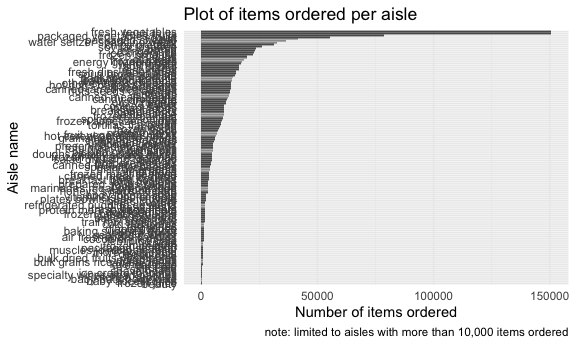
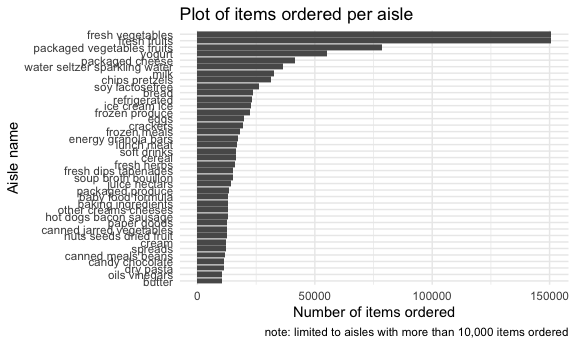
successfully filtered plot

diff --git a/p8105_hw3_smm2350.md b/p8105_hw3_smm2350.md
@@ -27,7 +27,7 @@ for a total of 20769255 data points. Key variables include `order_id`,
 instacart %>%
   group_by(aisle_id, aisle) %>%
   summarize(n_obs = n()) %>%
-  arrange(desc(n_obs))
+  arrange(desc(n_obs)) 
 ```
 
     ## `summarise()` has grouped output by 'aisle_id'. You can override using the `.groups` argument.
@@ -55,6 +55,7 @@ There are 134 aisles. The aisles with the most ordered from items are
 ``` r
 instacart %>%
   count(aisle) %>%
+  filter(n > 10000) %>%
   ggplot(aes(forcats::fct_reorder(aisle, (n)), n)) +
   geom_col() +
   coord_flip() +
